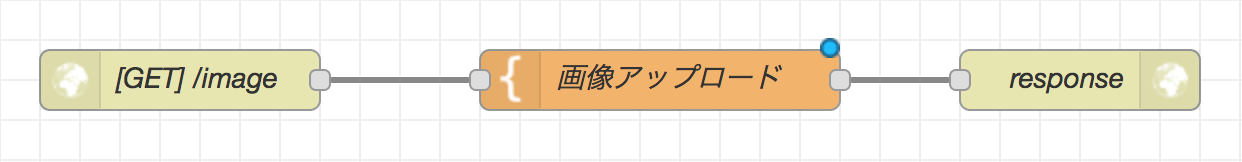
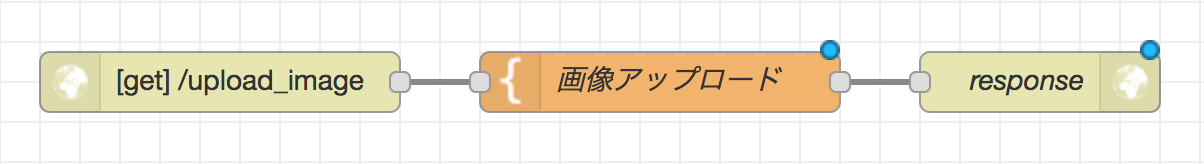
要求例追加

Changed region(s): [[0.0307, 0.216, 0.9834, 0.7099]]

diff --git a/upload-image/README.md b/upload-image/README.md
@@ -5,5 +5,7 @@
 画像をアップロードするレシピ
 
 ```
-[{"id":"cfe5184a.b9b8b8","type":"template","z":"7cc27111.df64e","name":"画像アップロード","field":"payload","fieldType":"msg","format":"html","syntax":"mustache","template":"<html>\n<head><title>Image upload</title></head>\n<body>\n<h1>Image upload</h1>\n<h2>Select an image file</h2>\n<form  action=\"/image\" method=\"post\" enctype=\"multipart/form-data\">\n    <input type=\"file\" name=\"imagedata\" accept=\"image/*\"  />\n    <input type=\"submit\" value=\"Upload\"/>\n</form>\n</body>\n</html>","x":350,"y":40,"wires":[["127bb0b8.48d13f"]]},{"id":"c42acfae.4abb3","type":"http in","z":"7cc27111.df64e","name":"[GET] /image","url":"/image","method":"get","upload":false,"swaggerDoc":"","x":110,"y":40,"wires":[["cfe5184a.b9b8b8"]]},{"id":"127bb0b8.48d13f","type":"http response","z":"7cc27111.df64e","name":"response","statusCode":"","headers":{},"x":560,"y":40,"wires":[]}]
+[{"id":"cfe5184a.b9b8b8","type":"template","z":"7cc27111.df64e","name":"画像アップロード","field":"payload","fieldType":"msg","format":"html","syntax":"mustache","template":"<html>\n<head><title>Image upload</title></head>\n<body>\n<h1>Image upload</h1>\n<h2>Select an image file</h2>\n<form  action=\"/image\" method=\"post\" enctype=\"multipart/form-data\">\n    <input type=\"file\" name=\"imagedata\" accept=\"image/*\"  />\n    <input type=\"submit\" value=\"Upload\"/>\n</form>\n</body>\n</html>","x":350,"y":40,"wires":[["127bb0b8.48d13f"]]},{"id":"c42acfae.4abb3","type":"http in","z":"7cc27111.df64e","name":"[GET] /upload_image","url":"/upload_image","method":"get","upload":false,"swaggerDoc":"","x":110,"y":40,"wires":[["cfe5184a.b9b8b8"]]},{"id":"127bb0b8.48d13f","type":"http response","z":"7cc27111.df64e","name":"response","statusCode":"","headers":{},"x":560,"y":40,"wires":[]}]
 ```
+
+要求例: https://nodered-recipes-sample.mybluemix.net/upload_image
